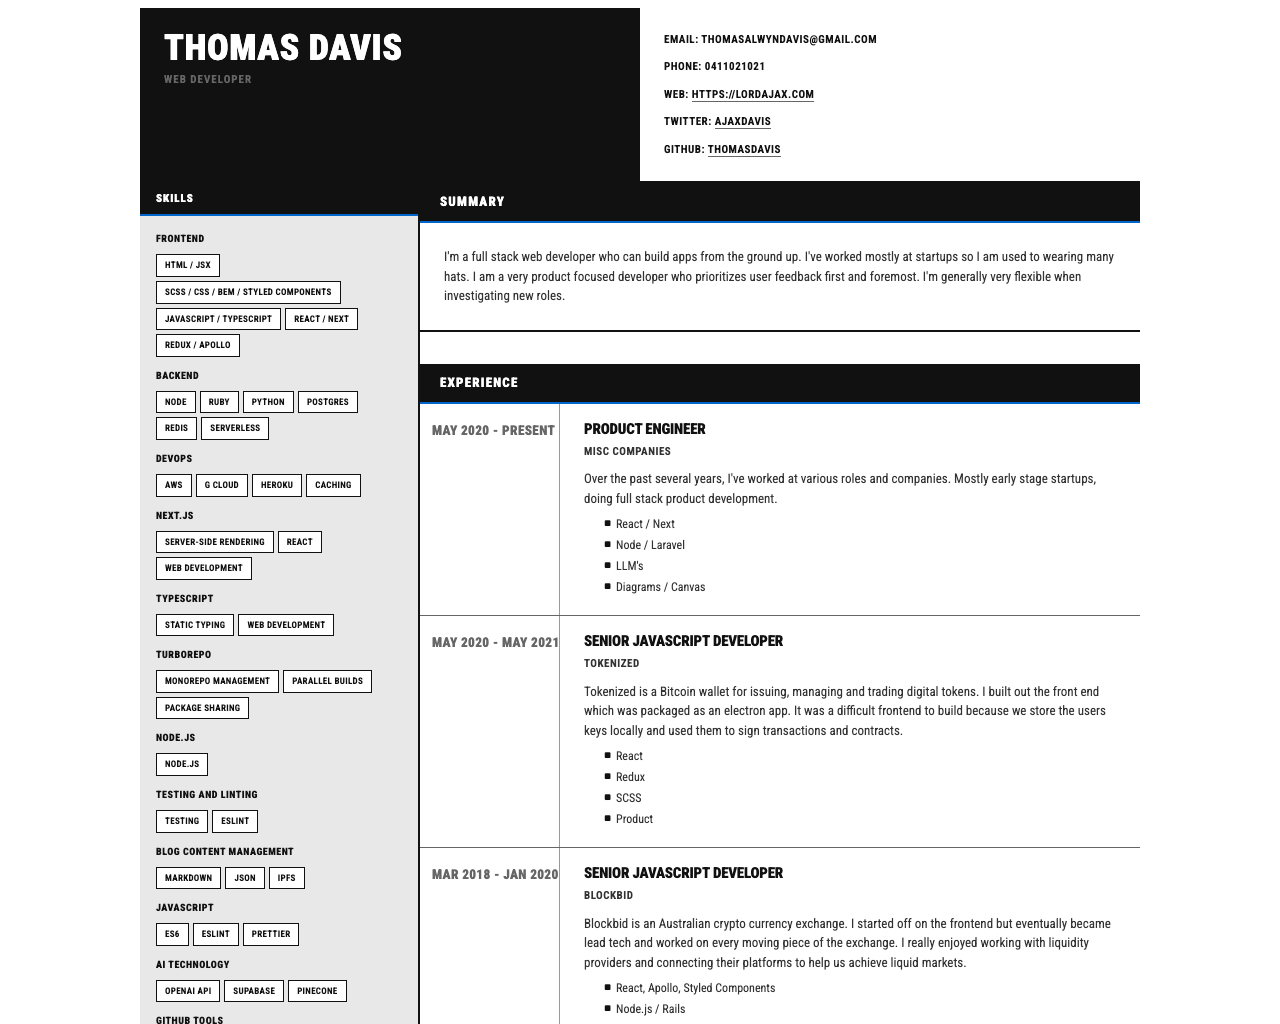
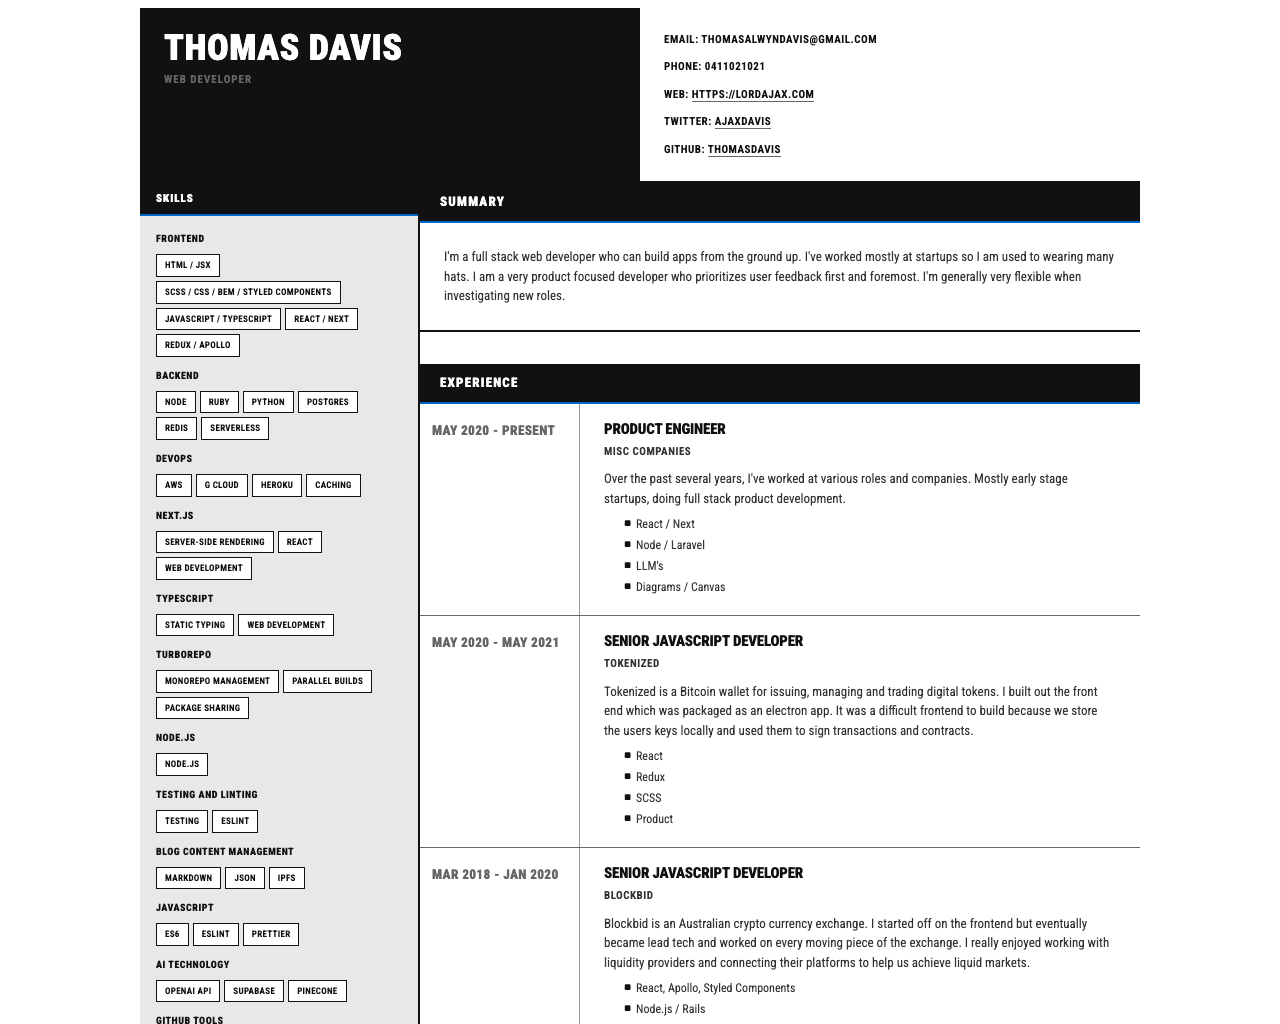
fix(themes): widen Urban Techno date column to prevent text cutoff
Increased date column width from 140px to 160px to ensure full date
ranges display without truncation (e.g., 'MAY 2020 - MAY 2021').

🤖 Generated with Claude Code

Changed region(s): [[0.4375, 0.4062, 0.8438, 0.8125], [0.4375, 0.8438, 0.875, 1.0]]

diff --git a/packages/themes/jsonresume-theme-urban-techno/src/Resume.jsx b/packages/themes/jsonresume-theme-urban-techno/src/Resume.jsx
@@ -176,7 +176,7 @@ const MainSectionTitle = styled(SectionTitle)`
 
 const WorkGrid = styled.div`
   display: grid;
-  grid-template-columns: 140px 1fr;
+  grid-template-columns: 160px 1fr;
   border-bottom: 1px solid #666;
 
   &:last-child {
